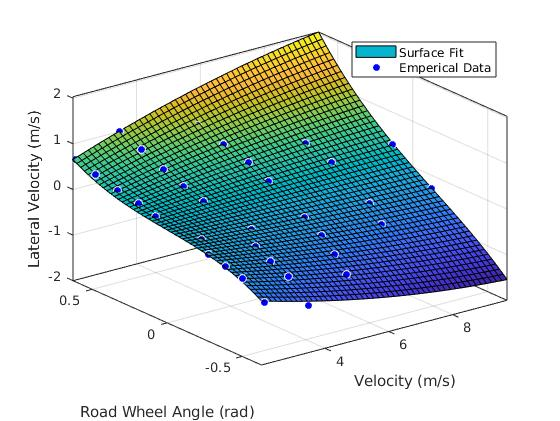
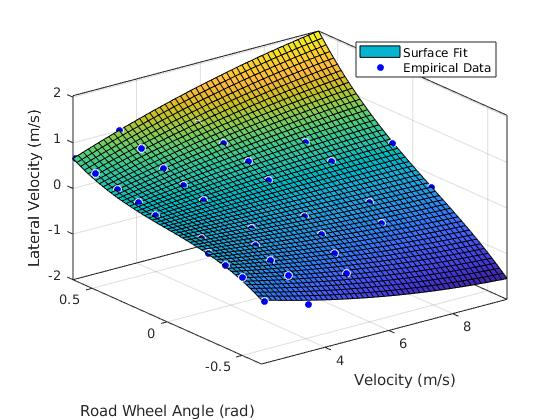
updated the word empirical

diff --git a/road_feedforward.m b/road_feedforward.m
@@ -1,4 +1,4 @@
-function [fitresult, gof] = roadWheelAngle(speed, lateral_velocity, road_wheel_angles_rad)
+function [fitresult, gof] = road_feedforward(speed, lateral_velocity, road_wheel_angles_rad)
 %CREATEFIT(SPEED,LATERAL_VELOCITY,ROAD_WHEEL_ANGLES_RAD)
 %  Create a fit.
 %
@@ -27,7 +27,7 @@ ft = fittype( 'poly33' );
 % Plot fit with data.
 figure( 'Name', 'Feedforward Road Wheel Angle' );
 h = plot( fitresult, [xData, yData], zData );
-legend( h, 'Surface Fit', 'Emperical Data', 'Location', 'NorthEast', 'Interpreter', 'none' );
+legend( h, 'Surface Fit', 'Empirical Data', 'Location', 'NorthEast', 'Interpreter', 'none' );
 % Label axes
 xlabel( 'Velocity (m/s)', 'Interpreter', 'none' );
 ylabel( 'Lateral Velocity (m/s)', 'Interpreter', 'none' );

diff --git a/lateralDynamics.m b/lateralDynamics.m
@@ -27,7 +27,7 @@ ft = fittype( 'poly33' );
 % Plot fit with data.
 figure( 'Name', 'Data-Driven Lateral Dynamics' );
 h = plot( fitresult, [xData, yData], zData );
-legend( h, 'Surface Fit', 'Emperical Data', 'Location', 'NorthEast', 'Interpreter', 'none' );
+legend( h, 'Surface Fit', 'Empirical Data', 'Location', 'NorthEast', 'Interpreter', 'none' );
 % Label axes
 xlabel( 'Velocity (m/s)', 'Interpreter', 'none' );
 ylabel( 'Road Wheel Angle (rad)', 'Interpreter', 'none' );

diff --git a/lateralVelocity.m b/lateralVelocity.m
@@ -27,7 +27,7 @@ ft = fittype( 'poly33' );
 % Plot fit with data.
 figure( 'Name', 'Surface Fit' );
 h = plot( fitresult, [xData, yData], zData );
-legend( h, 'Surface Fit', 'Emperical Data', 'Location', 'NorthEast', 'Interpreter', 'none' );
+legend( h, 'Surface Fit', 'Empirical Data', 'Location', 'NorthEast', 'Interpreter', 'none' );
 % Label axes
 xlabel( 'Velocity (m/s)', 'Interpreter', 'none' );
 ylabel( 'Road Wheel Angle (rad)', 'Interpreter', 'none' );

diff --git a/steering_lataccel.m b/steering_lataccel.m
@@ -471,5 +471,5 @@ road_wheel_angles_deg = steering_wheel_angles/12.5;
 
 lateralDynamics (speed, road_wheel_angles_rad, lateral_acceleration)
 lateralVelocity (speed, road_wheel_angles_rad, lateral_velocity)
-roadWheelAngle (speed, lateral_velocity, road_wheel_angles_rad)
+road_feedforward (speed, lateral_velocity, road_wheel_angles_rad)
 cftool
